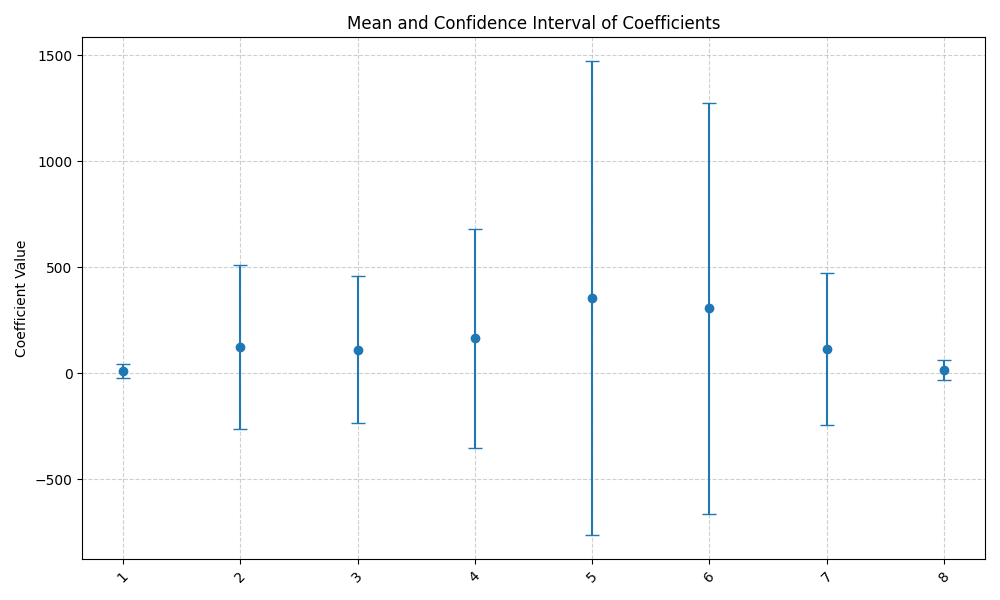
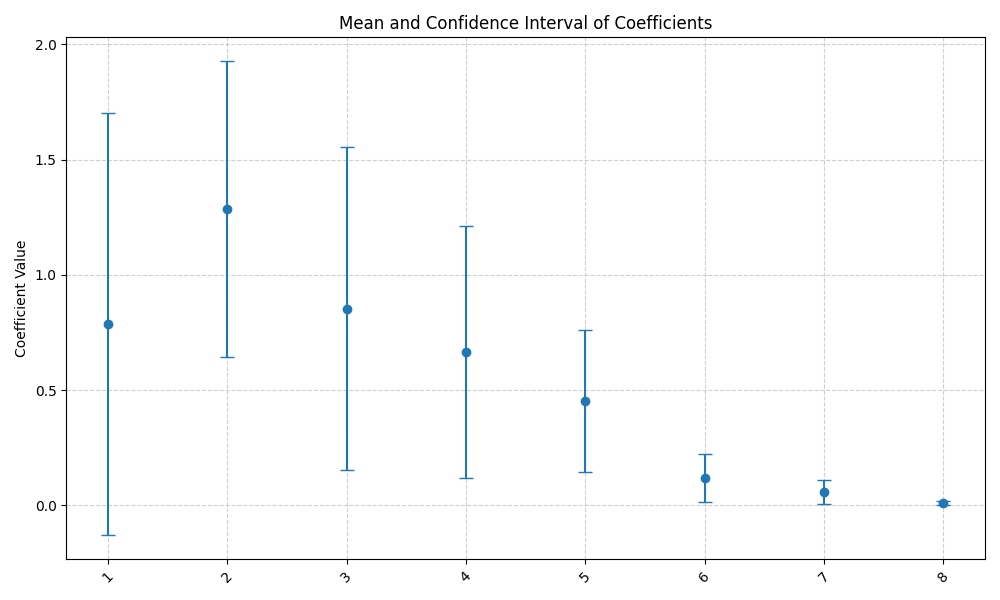
Made a heatmap script for symbolic expression coeffecients

diff --git a/fagproject/src/project/simple_PN_intepretability.py b/fagproject/src/project/simple_PN_intepretability.py
@@ -1,0 +1,256 @@
+import torch
+import torch.nn as nn
+import torch.optim as optim
+import numpy as np
+from torch.utils.data import DataLoader, TensorDataset
+import matplotlib.pyplot as plt
+import sympy as sp
+from sklearn.model_selection import train_test_split
+from scipy import stats
+from sympy import Symbol, Mul, Pow
+from collections import defaultdict
+from Deep_PN.PN_model_triang_deep import Polynomial_Network, PN_Neuron
+from sklearn.preprocessing import StandardScaler
+import seaborn as sns
+import pandas as pd
+
+
+
+# Set random seed
+random_seed = 42
+np.random.seed(random_seed)
+torch.manual_seed(random_seed)
+
+
+
+def get_order(expr):
+    if isinstance(expr, Symbol):
+        return 1
+    elif isinstance(expr, Pow):
+        return expr.exp
+    elif isinstance(expr, Mul):
+        # Skip mixed terms like x*y
+        if any(isinstance(arg, Mul) for arg in expr.args):
+            return None
+        vars_in_term = [a for a in expr.args if isinstance(a, Symbol)]
+        exps_in_term = [1 for _ in vars_in_term]  # x is x**1
+        exps_in_term += [a.exp for a in expr.args if isinstance(a, Pow)]
+        if len(set(a if isinstance(a, Symbol) else a.base for a in expr.args)) > 1:
+            return None  # mixed term
+        return sum(exps_in_term)
+    elif isinstance(expr, int) or isinstance(expr, float):
+        return 0
+    return None
+
+def extract_max_by_order_single_dict(coef_dict):
+    order_dict = defaultdict(list)
+
+    for expr, coeff in coef_dict.items():
+        order = get_order(expr)
+        if order is not None:
+            order_dict[int(order)].append(abs(coeff))
+
+    # Get max coefficient per order
+    max_by_order = {order: max(values) for order, values in order_dict.items()}
+    return max_by_order
+
+def summarize_coefficients(coef_list, confidence=0.95):
+    keys = list(coef_list[0].keys())
+    summary = {}
+
+    for key in keys:
+        values = []
+        for d in coef_list:
+            try:
+                values.append(d[key])
+            except KeyError:
+                print(f"Missing key '{key}' in dictionary: {d}")
+                continue  # Skip this dictionary
+        values = np.array(values)
+        mean = np.mean(values)
+        sem = stats.sem(values)  # standard error of the mean
+        ci_range = sem * stats.t.ppf((1 + confidence) / 2, len(values) - 1)
+        summary[key] = {
+            "mean": mean,
+            "ci": ci_range
+        }
+    
+    return summary
+
+def extract_single_variable_terms(expr):
+    expr = sp.expand(expr)
+    terms = expr.as_ordered_terms()
+
+    coeff_dict = {}
+
+    for term in terms:
+        free_symbols = term.free_symbols
+        
+        # Only keep terms with exactly one variable (x, x**2, y, y**3, etc.)
+        if len(free_symbols) == 1:
+            coeff, rest = term.as_coeff_Mul()
+            rest = sp.simplify(rest)
+            coeff_dict[rest] = float(coeff)
+
+    return coeff_dict
+
+
+def plot_coefficients_heatmap(summary):
+    import pandas as pd
+
+    # Convert to DataFrame for seaborn heatmap
+    data = []
+    labels = []
+
+    for key, stats in summary.items():
+        labels.append(str(key))
+        data.append([stats["mean"], stats["ci"]])
+
+    df = pd.DataFrame(data, columns=["Mean", "Confidence Interval"], index=labels)
+
+    # Sort rows by order (if possible)
+    def order_key(label):
+        try:
+            if "**" in label:
+                base, exp = label.split("**")
+                return int(exp)
+            elif label.isalpha():
+                return 1
+            else:
+                return 0
+        except:
+            return 99
+
+    df = df.loc[sorted(df.index, key=order_key)]
+
+    plt.figure(figsize=(8, max(4, len(df)*0.5)))
+    sns.heatmap(df, annot=True, cmap="coolwarm", fmt=".3f", linewidths=0.5, cbar_kws={'label': 'Value'})
+    plt.title("Heatmap of Coefficients (Mean and CI)")
+    plt.xlabel("Statistic")
+    plt.ylabel("Polynomial Term")
+    plt.tight_layout()
+    plt.savefig(f"fagproject/src/project/interpretability_plots/heatmap_e_{n_epochs}_k_{k}")
+    plt.close()
+
+def train_model(model, X_train, Y_train, X_val, Y_val, n_epochs, learning_rate=0.01, path = None, optimizer_type='Adam', l2_lambda=1e-4):
+    # Scale first (while still NumPy arrays)
+    scaler_X = StandardScaler()
+    X_train = scaler_X.fit_transform(X_train)
+    X_val = scaler_X.transform(X_val)
+
+    scaler_y = StandardScaler()
+    Y_train = scaler_y.fit_transform(Y_train)
+    Y_val = scaler_y.transform(Y_val)
+
+    # Then convert to PyTorch tensors
+    X_train = torch.tensor(X_train, dtype=torch.float32)
+    Y_train = torch.tensor(Y_train, dtype=torch.float32)
+    X_val = torch.tensor(X_val, dtype=torch.float32)
+    Y_val = torch.tensor(Y_val, dtype=torch.float32)
+
+    criterion = nn.MSELoss()
+    if optimizer_type == 'Adam':
+        optimizer = optim.Adam(model.parameters(), lr=learning_rate, weight_decay=1e-4)
+    elif optimizer_type == 'SGD':
+        optimizer = optim.SGD(model.parameters(), lr=learning_rate, weight_decay=1e-4)
+    elif optimizer_type == 'LBFGS':
+        optimizer = optim.LBFGS(model.parameters(), lr=learning_rate, max_iter=20)
+
+    train_losses = []
+    val_losses = []
+
+    def closure():
+        optimizer.zero_grad()
+        predictions = model(X_train)
+        base_loss = criterion(predictions,Y_train)
+        l2_norm = sum(param.pow(2.0).sum() for param in model.parameters())
+        train_loss = base_loss + l2_lambda * l2_norm
+        train_loss.backward()
+        torch.nn.utils.clip_grad_norm_(model.parameters(), max_norm=1.0)
+
+        return train_loss
+
+    for epoch in range(n_epochs):
+        model.train()
+
+        if optimizer_type in ['Adam', 'SGD']:
+            optimizer.zero_grad()
+            predictions = model(X_train)
+            base_loss = criterion(predictions,Y_train)
+
+            
+            l2_norm = sum(param.pow(2.0).sum() for param in model.parameters())
+            train_loss = base_loss + l2_lambda * l2_norm
+            train_loss.backward()
+
+            #print(f'optimizer step: {optimizer.step()}')
+            torch.nn.utils.clip_grad_norm_(model.parameters(), max_norm=1.0)
+
+            optimizer.step()
+ 
+        elif optimizer_type == 'LBFGS':
+            optimizer.step(closure)
+
+
+    x, y = sp.symbols('x y')
+    #model = model.to('cpu')
+    polynomial = model.symbolic_forward(x, y)
+    print(polynomial)
+
+    return model, train_losses, val_losses, polynomial
+
+# Load dataset
+path = 'fagproject/data/train_q_n_1.pkl'
+X, y = torch.load(path)
+
+
+# Train Polynomial Network
+n_epochs = 10
+learning_rate = 0.0001
+k = 5
+layers = [2] 
+
+print("Training Polynomial Network...")
+
+coef_list = []
+for i in range(k):
+    X_train, X_val, y_train, y_val = train_test_split(X, y, test_size=0.2, random_state=i)
+    num_features = X_train.shape[1]
+    print(f"Traning model: {i+1}")
+    Polynomial_Net = Polynomial_Network(layers, in_features=num_features)
+    poly_network, train_losses, val_losses, polynomial_symbolic = train_model(Polynomial_Net, X_train, y_train, X_val, y_val, n_epochs=n_epochs, learning_rate=learning_rate, path=path)
+
+    # Evaluate on test data
+    with torch.no_grad():
+        test_loss = nn.MSELoss()(poly_network(X_val), y_val)
+        #print(f"Test Loss (Polynomial Network): {test_loss.item():.4f}")
+
+    coef = extract_single_variable_terms(polynomial_symbolic)
+    coef_list.append(coef)
+
+print(coef_list)
+results = [extract_max_by_order_single_dict(d) for d in coef_list]
+summary = summarize_coefficients(results)
+plot_coefficients_heatmap(summary)
+
+# Convert coefficient dictionaries to a DataFrame
+df_coef = pd.DataFrame(coef_list)
+
+# Drop any terms that are missing in all models (i.e., full NaN columns)
+df_coef = df_coef.dropna(axis=1, how='all')
+
+# Optional: fill remaining NaNs with 0s (if you assume 0 coefficient for missing terms)
+df_coef = df_coef.fillna(0)
+
+# Compute the correlation matrix
+corr_matrix = df_coef.corr()
+
+# Plot the heatmap
+plt.figure(figsize=(12, 10))
+sns.heatmap(corr_matrix, annot=True, fmt=".2f", cmap="coolwarm", center=0, linewidths=0.5, cbar_kws={"shrink": 0.8})
+plt.title("Correlation Matrix of Symbolic Coefficients")
+plt.xticks(rotation=45, ha='right')
+plt.yticks(rotation=0)
+plt.tight_layout()
+plt.savefig(f"fagproject/src/project/interpretability_plots/correlation_heatmap_e_{n_epochs}_k_{k}")
+plt.close()

diff --git a/fagproject/src/project/conf_max.py b/fagproject/src/project/conf_max.py
@@ -13,6 +13,8 @@ from sympy import Symbol, Mul, Pow
 from collections import defaultdict
 from Deep_PN.PN_model_triang_deep import Polynomial_Network, PN_Neuron
 from sklearn.preprocessing import StandardScaler
+import pandas as pd
+import seaborn as sns
 
 # Set random seed
 random_seed = 42
@@ -119,14 +121,7 @@ def plot_coefficients_with_ci(summary):
     plt.savefig(f"fagproject/src/project/interpretability_plots/conf_e_{n_epochs}_k_{k}")
     plt.close()
 
-def train_model(model, X_train, Y_train, X_val, Y_val, n_epochs, learning_rate=0.01, path = None, optimizer_type='Adam'):
-    # device = torch.device("cuda" if torch.cuda.is_available() else "cpu")
-    # model = model.to(device)
-    # X_train = X_train.to(device)
-    # Y_train = Y_train.to(device)
-    # X_val = X_val.to(device)
-    # Y_val = Y_val.to(device)
-
+def train_model(model, X_train, Y_train, X_val, Y_val, n_epochs, learning_rate=0.01, path = None, optimizer_type='Adam', l2_lambda=1e-4):
     # Scale first (while still NumPy arrays)
     scaler_X = StandardScaler()
     X_train = scaler_X.fit_transform(X_train)
@@ -142,31 +137,48 @@ def train_model(model, X_train, Y_train, X_val, Y_val, n_epochs, learning_rate=0
     X_val = torch.tensor(X_val, dtype=torch.float32)
     Y_val = torch.tensor(Y_val, dtype=torch.float32)
 
-
     criterion = nn.MSELoss()
-    optimizer = optim.LBFGS(model.parameters(), lr=learning_rate, max_iter=20)
+    if optimizer_type == 'Adam':
+        optimizer = optim.Adam(model.parameters(), lr=learning_rate, weight_decay=1e-4)
+    elif optimizer_type == 'SGD':
+        optimizer = optim.SGD(model.parameters(), lr=learning_rate, weight_decay=1e-4)
+    elif optimizer_type == 'LBFGS':
+        optimizer = optim.LBFGS(model.parameters(), lr=learning_rate, max_iter=20)
 
     train_losses = []
     val_losses = []
 
+    def closure():
+        optimizer.zero_grad()
+        predictions = model(X_train)
+        base_loss = criterion(predictions,Y_train)
+        l2_norm = sum(param.pow(2.0).sum() for param in model.parameters())
+        train_loss = base_loss + l2_lambda * l2_norm
+        train_loss.backward()
+        torch.nn.utils.clip_grad_norm_(model.parameters(), max_norm=1.0)
+
+        return train_loss
+
     for epoch in range(n_epochs):
-        def closure():
+        model.train()
+
+        if optimizer_type in ['Adam', 'SGD']:
             optimizer.zero_grad()
             predictions = model(X_train)
-            loss = criterion(predictions, Y_train)
-            loss.backward()
-            return loss
+            base_loss = criterion(predictions,Y_train)
 
-        optimizer.step(closure)
+            
+            l2_norm = sum(param.pow(2.0).sum() for param in model.parameters())
+            train_loss = base_loss + l2_lambda * l2_norm
+            train_loss.backward()
 
-        # Evaluate losses
-        model.eval()
-        with torch.no_grad():
-            train_loss = criterion(model(X_train), Y_train)
-            val_loss = criterion(model(X_val), Y_val)
+            #print(f'optimizer step: {optimizer.step()}')
+            torch.nn.utils.clip_grad_norm_(model.parameters(), max_norm=1.0)
 
-        train_losses.append(train_loss.item())
-        val_losses.append(val_loss.item())
+            optimizer.step()
+ 
+        elif optimizer_type == 'LBFGS':
+            optimizer.step(closure)
 
 
     x, y = sp.symbols('x y')
@@ -179,19 +191,20 @@ def train_model(model, X_train, Y_train, X_val, Y_val, n_epochs, learning_rate=0
 # Load dataset
 path = 'fagproject/data/train_q_n_1.pkl'
 X, y = torch.load(path)
-X_train, X_val, y_train, y_val = train_test_split(X, y, test_size=0.2, random_state=42)
 
 
 # Train Polynomial Network
 n_epochs = 1000
-learning_rate = 0.01
-k = 40
+learning_rate = 0.0001
+k = 50
 layers = [2,2,2] 
-num_features = X_train.shape[1]
+
 print("Training Polynomial Network...")
 
 coef_list = []
 for i in range(k):
+    X_train, X_val, y_train, y_val = train_test_split(X, y, test_size=0.2, random_state=i)
+    num_features = X_train.shape[1]
     print(f"Traning model: {i+1}")
     Polynomial_Net = Polynomial_Network(layers, in_features=num_features)
     poly_network, train_losses, val_losses, polynomial_symbolic = train_model(Polynomial_Net, X_train, y_train, X_val, y_val, n_epochs=n_epochs, learning_rate=learning_rate, path=path)

diff --git a/fagproject/src/project/Deep_PN/train_deep.py b/fagproject/src/project/Deep_PN/train_deep.py
@@ -125,10 +125,9 @@ def train_model(model, X_train, Y_train, X_val, Y_val, n_epochs, learning_rate=0
             torch.nn.utils.clip_grad_norm_(model.parameters(), max_norm=1.0)
 
             optimizer.step()
-            train_loss = loss.item()
+ 
         elif optimizer_type == 'LBFGS':
             optimizer.step(closure)
-            train_loss = closure().item()
 
         model.eval()
         with torch.no_grad():
